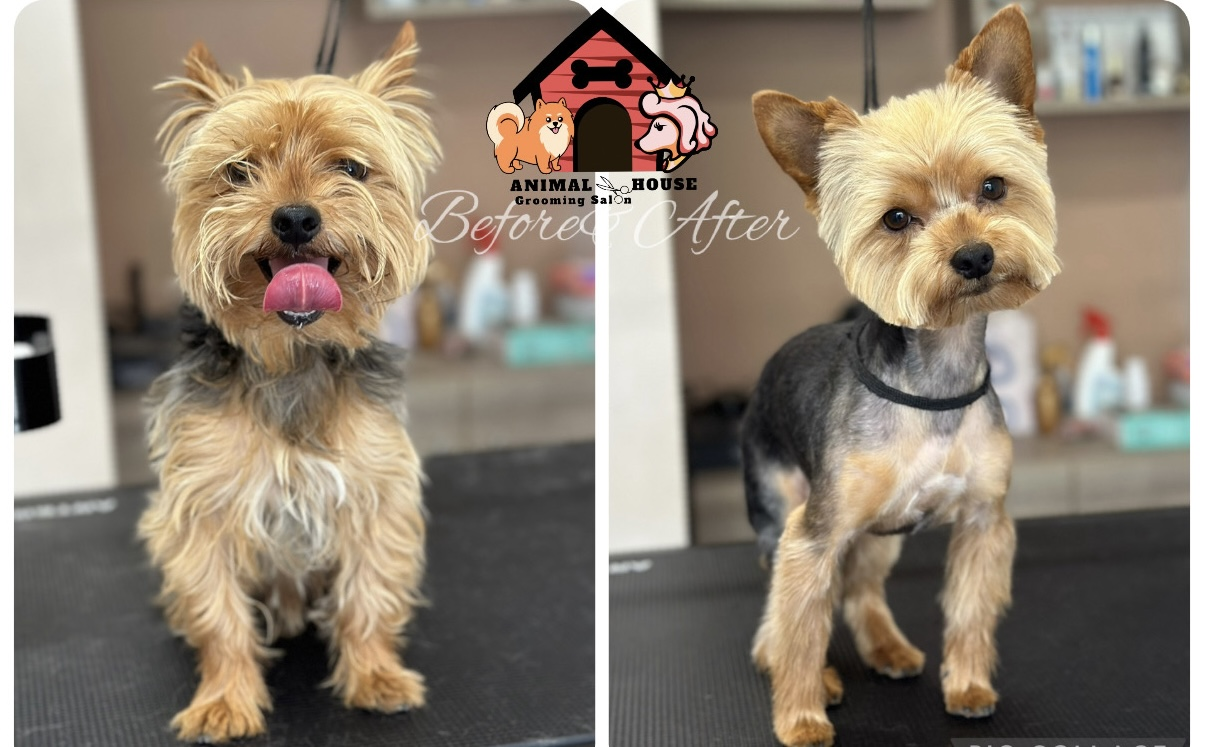
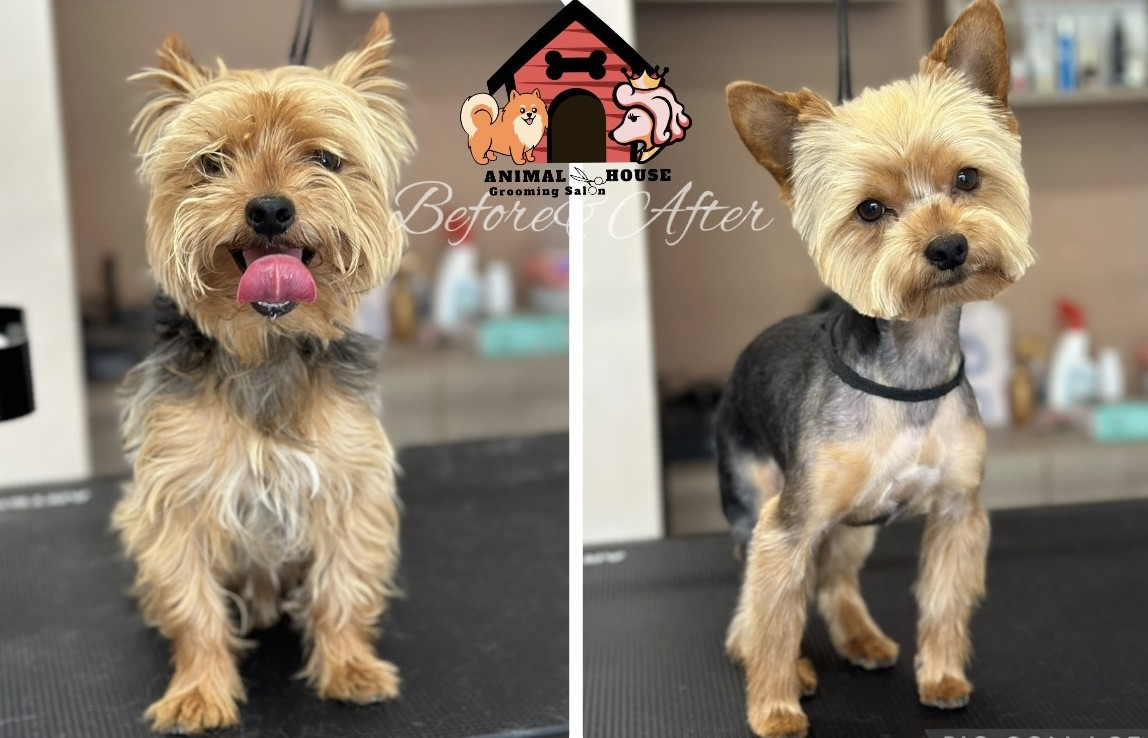
About page with founder photo and story; larger gallery lightbox; cropped gallery photos.

diff --git a/app/(site)/about/page.tsx b/app/(site)/about/page.tsx
@@ -1,8 +1,8 @@
 import type { Metadata } from "next";
+import Image from "next/image";
 import Link from "next/link";
 import { getSettings } from "@/lib/settings";
 import { ButtonLink } from "@/components/ui/button";
-import { PopOut } from "@/components/site/dog-figure";
 
 export const dynamic = "force-dynamic";
 export const metadata: Metadata = {
@@ -17,6 +17,13 @@ const FACTS = [
   ["100%", "изпробвано", "Всеки продукт в магазина първо е минал през салона."],
 ] as const;
 
+const STORY = [
+  "Казвам се Стефани Бучакова и вече повече от 5 години професионалният груминг е моя страст и призвание.",
+  "През годините, прекарани сред безброй пухкави муцунки, разбрах, че грижата за животните е много повече от професия – тя е любов, търпение, отдаденост и внимание към всеки детайл.",
+  "Именно този опит ме вдъхнови да направя следващата крачка – да създам собствена професионална козметика за домашни любимци. Така се роди CULTE – бранд, зад който стоят моята любов, страст, опит и желание да предложа най-качествената домашна грижа.",
+  "Днес Animal House Grooming Salon и Culte са двете страни на една обща идея – да даваме най-доброто на онези, които ни даряват с безусловна любов всеки ден.",
+] as const;
+
 const STEPS = [
   ["Запознаваме се", "Питаме за навиците, страховете и здравето на кучето."],
   ["Подбираме", "Шампоан и балсам според козината и чувствителността на кожата."],
@@ -29,17 +36,32 @@ export default async function AboutPage() {
   return (
     <div className="pt-12">
       {/* Начало */}
-      <section className="container-page grid items-center gap-12 md:grid-cols-12 md:gap-8">
-        <div className="md:col-span-7">
+      <section className="container-page grid items-start gap-12 md:grid-cols-12 md:gap-8">
+        <div className="md:col-span-6">
           <p className="animate-rise text-[11px] font-medium tracking-[0.32em] text-terracotta uppercase">За нас</p>
-          <h1 className="mt-4 animate-rise text-[clamp(2.6rem,6vw,4.6rem)] text-balance [animation-delay:80ms]">{s.slogan}</h1>
-          <p className="mt-6 max-w-[40ch] animate-rise text-[17px] leading-8 text-espresso-soft [animation-delay:160ms]">
-            Culte започна от едно просто правило:{" "}
-            <span className="font-serif text-[1.2em] text-espresso italic">кучето в салона трябва да се чувства спокойно.</span>
+          <h1 className="mt-4 animate-rise text-[clamp(2.4rem,4.2vw,3.8rem)] text-balance [animation-delay:80ms]">{s.slogan}</h1>
+          <div className="mt-8 max-w-[52ch] animate-rise space-y-5 text-[16px] leading-7 text-espresso-soft [animation-delay:160ms]">
+            {STORY.map((t) => (
+              <p key={t.slice(0, 24)}>{t}</p>
+            ))}
+            <p className="font-serif text-[1.35em] leading-snug text-espresso italic">Защото те не са просто домашни любимци. Те са семейство!</p>
+          </div>
+          <p className="mt-8 animate-rise [animation-delay:220ms]">
+            <span className="block text-[11px] font-medium tracking-[0.28em] text-terracotta uppercase">С любов,</span>
+            <span className="mt-2 block font-serif text-[1.8rem] leading-none italic">Стефани Бучакова</span>
           </p>
         </div>
-        <div className="group animate-rise [animation-delay:200ms] md:col-span-4 md:col-start-9">
-          <PopOut dog="puppy" tone="sand-deep" priority className="mx-auto max-w-[300px] md:max-w-none" sizes="(min-width: 768px) 380px, 300px" />
+        <div className="animate-rise [animation-delay:200ms] md:sticky md:top-28 md:col-span-5 md:col-start-8">
+          <div className="relative mx-auto aspect-[1206/1305] max-w-[440px] overflow-hidden rounded-lg bg-sand md:max-w-none">
+            <Image
+              src="/za-nas.png"
+              alt="Стефани Бучакова с черен той пудел със златна папийонка"
+              fill
+              priority
+              sizes="(min-width: 768px) 42vw, 440px"
+              className="object-cover"
+            />
+          </div>
         </div>
       </section>
 

diff --git a/components/site/gallery-grid.tsx b/components/site/gallery-grid.tsx
@@ -107,7 +107,7 @@ function Lightbox({
       }}
     >
       <style>{KEYFRAMES}</style>
-      <div className="flex items-center justify-between px-4 py-3 text-cream sm:px-6">
+      <div className="flex items-center justify-between px-4 py-1 text-cream sm:px-6">
         <span className="text-sm tabular-nums text-cream/70">
           {index + 1} / {photos.length}
         </span>
@@ -124,7 +124,8 @@ function Lightbox({
         </button>
       </div>
 
-      <div className="relative flex min-h-0 flex-1 items-center justify-center px-2 sm:px-20">
+      {/* --chrome = височината на горната и долната лента; снимката заема всичко останало (и се уголемява над реалния си размер). */}
+      <div className="relative flex min-h-0 flex-1 items-center justify-center [--chrome:7rem] [--padx:0px] sm:[--chrome:5.75rem] sm:[--padx:2rem]">
         {/* Реалните пропорции: елементът е колкото видимата снимка, така празното място около нея затваря. */}
         <Image
           key={p.src}
@@ -133,13 +134,18 @@ function Lightbox({
           width={p.w}
           height={p.h}
           sizes="100vw"
-          className="h-auto max-h-[calc(100svh-8.5rem)] w-auto max-w-full animate-[lightbox-img_350ms_cubic-bezier(0.2,0.7,0.2,1)_both] rounded-sm object-contain"
+          style={{ width: `min(calc(100vw - var(--padx)), calc((100svh - var(--chrome)) * ${p.w / p.h}))` }}
+          className="h-auto max-w-none animate-[lightbox-img_350ms_cubic-bezier(0.2,0.7,0.2,1)_both] sm:rounded-sm"
         />
-        <NavBtn dir={-1} onGo={onGo} />
-        <NavBtn dir={1} onGo={onGo} />
+        <NavBtn dir={-1} onGo={onGo} place="side" />
+        <NavBtn dir={1} onGo={onGo} place="side" />
       </div>
 
-      <p className="px-4 py-4 text-center text-sm text-cream/70">{p.alt}</p>
+      <div className="flex items-center gap-3 px-2 py-2 sm:justify-center sm:px-4 sm:py-3">
+        <NavBtn dir={-1} onGo={onGo} place="bar" />
+        <p className="line-clamp-2 flex-1 text-center text-sm leading-tight text-cream/70 sm:flex-none">{p.alt}</p>
+        <NavBtn dir={1} onGo={onGo} place="bar" />
+      </div>
     </div>,
     document.body,
   );
@@ -147,15 +153,18 @@ function Lightbox({
 
 const KEYFRAMES = `@keyframes lightbox-in{from{opacity:0}}@keyframes lightbox-img{from{opacity:0;transform:scale(.97)}}`;
 
-function NavBtn({ dir, onGo }: { dir: 1 | -1; onGo: (d: number) => void }) {
+/** `side` — върху снимката отстрани (от sm нагоре); `bar` — в долната лента (само на телефон, за да не покриват снимката). */
+function NavBtn({ dir, onGo, place }: { dir: 1 | -1; onGo: (d: number) => void; place: "side" | "bar" }) {
   return (
     <button
       type="button"
       onClick={() => onGo(dir)}
       aria-label={dir < 0 ? "Предишна снимка" : "Следваща снимка"}
       className={cn(
-        "absolute top-1/2 grid size-11 -translate-y-1/2 place-items-center rounded-full bg-cream/90 text-espresso shadow-lg transition-transform hover:scale-105 sm:size-12",
-        dir < 0 ? "left-2 sm:left-5" : "right-2 sm:right-5",
+        "size-11 shrink-0 place-items-center rounded-full bg-cream/90 text-espresso shadow-lg transition-transform hover:scale-105",
+        place === "side"
+          ? cn("absolute top-1/2 hidden -translate-y-1/2 sm:grid sm:size-12", dir < 0 ? "left-5" : "right-5")
+          : "grid sm:hidden",
       )}
     >
       <svg viewBox="0 0 20 20" className="size-5" fill="none" stroke="currentColor" strokeWidth="1.7" strokeLinecap="round" strokeLinejoin="round">

diff --git a/lib/gallery.ts b/lib/gallery.ts
@@ -9,16 +9,16 @@ export const BEFORE_AFTER = {
 
 export const GALLERY: GalleryPhoto[] = [
   { src: "/gallery/yorkie-before-after-tie.jpg", w: 1206, h: 1206, alt: "Йоркширски териер преди и след груминг, със зелена вратовръзка на точки" },
-  { src: "/gallery/89620BD0-65FA-4810-8642-91979DC5BDFE.jpg", w: 1206, h: 843, alt: "Малтийска болонка преди и след груминг" },
+  { src: "/gallery/89620BD0-65FA-4810-8642-91979DC5BDFE.jpg", w: 1154, h: 835, alt: "Малтийска болонка преди и след груминг" },
   { src: "/gallery/008C6561-1DD1-43C9-A42A-0FE4906C38A4.jpg", w: 1206, h: 1685, alt: "Кафяв пудел след груминг, с папийонка за Хелоуин" },
   { src: "/gallery/IMG_5336.jpg", w: 1206, h: 1025, alt: "Пудел преди и след подстригване" },
-  { src: "/gallery/477D545E-5795-451E-B9F5-07513D0F0850.jpg", w: 1205, h: 747, alt: "Йоркширски териер преди и след груминг" },
+  { src: "/gallery/477D545E-5795-451E-B9F5-07513D0F0850.jpg", w: 1148, h: 738, alt: "Йоркширски териер преди и след груминг" },
   { src: "/gallery/cat.jpg", w: 1206, h: 1608, alt: "Сива котка след подстригване в салона" },
-  { src: "/gallery/BD662B50-08C2-446E-BE0C-70660435FA9C.jpg", w: 1290, h: 788, alt: "Йоркширски териер преди и след, с панделка" },
+  { src: "/gallery/BD662B50-08C2-446E-BE0C-70660435FA9C.jpg", w: 1238, h: 778, alt: "Йоркширски териер преди и след, с панделка" },
   { src: "/gallery/IMG_5333.jpg", w: 1206, h: 881, alt: "Йоркширски териер преди и след подстригване" },
-  { src: "/gallery/EF1F277F-45F1-47D4-A0BD-CACDC3966FE1.jpg", w: 1289, h: 800, alt: "Йоркширски териер с дълга козина преди и след груминг" },
+  { src: "/gallery/EF1F277F-45F1-47D4-A0BD-CACDC3966FE1.jpg", w: 1222, h: 786, alt: "Йоркширски териер с дълга козина преди и след груминг" },
   { src: "/gallery/IMG_5335.jpg", w: 1206, h: 1078, alt: "Йоркширски териер преди и след, с къса козина" },
-  { src: "/gallery/IMG_5342.jpg", w: 1206, h: 915, alt: "Йоркширски териер преди и след, с червена панделка" },
+  { src: "/gallery/IMG_5342.jpg", w: 1206, h: 899, alt: "Йоркширски териер преди и след, с червена панделка" },
 ];
 
 /** Снимка по име на файла — за места, които сочат конкретна снимка (не зависят от реда в GALLERY). */

diff --git a/app/(site)/gallery/page.tsx b/app/(site)/gallery/page.tsx
@@ -24,7 +24,7 @@ export default function GalleryPage() {
             Преди и след
           </h1>
           <p className="mt-6 max-w-[40ch] animate-rise text-[16px] leading-7 text-espresso-soft [animation-delay:160ms]">
-            Плъзнете дръжката по снимката, за да видите промяната — от рошаво кученце до готов пудел след салона.
+            Плъзни, за да видиш промяната.
           </p>
           <div className="mt-8 flex animate-rise flex-wrap items-center gap-x-6 gap-y-3 [animation-delay:240ms]">
             <ButtonLink href="/booking" size="lg">
